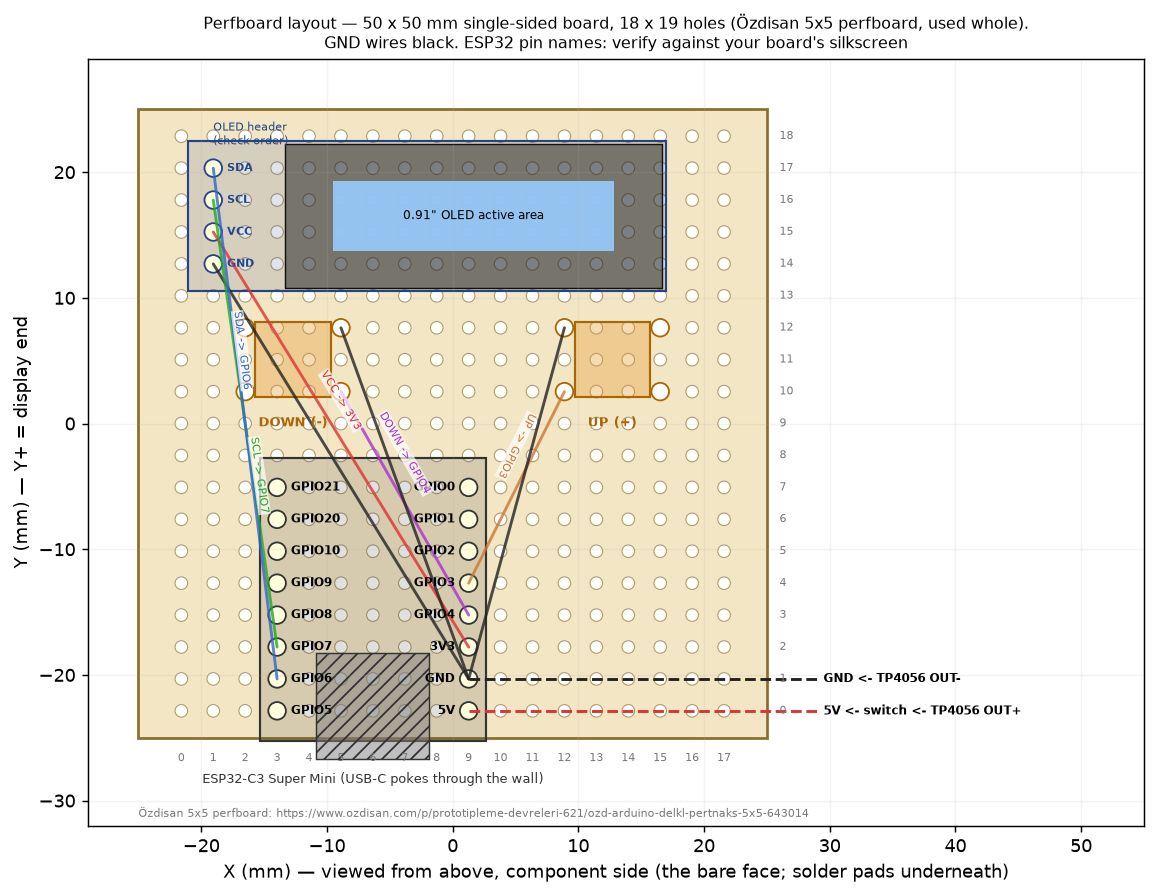
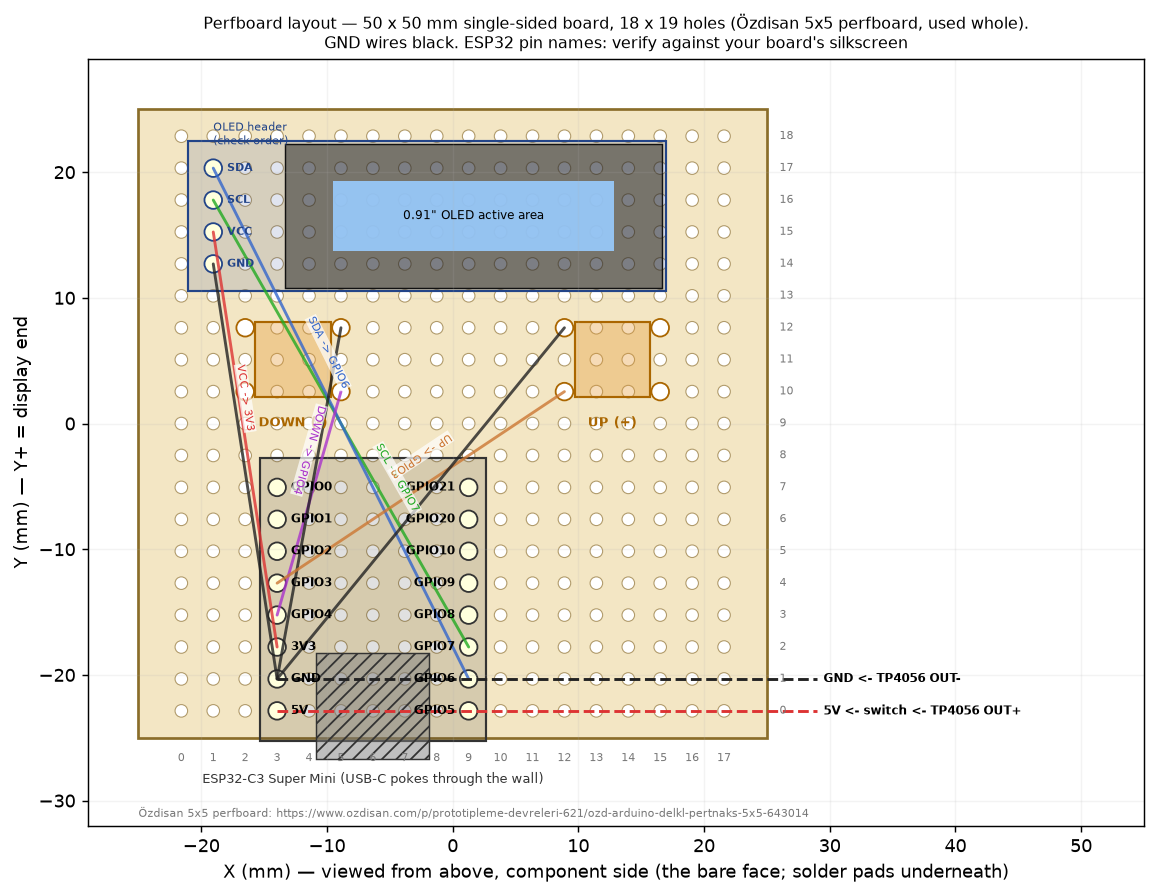
Fix mirrored Super Mini header columns in the perfboard drawing
The layout drawing had the two ESP32-C3 Super Mini pin columns swapped,
so a board wired from it put the buttons on GPIO8/GPIO9 and the OLED on
the power pins. With the USB-C at the bottom edge and the board viewed
from above, column 3 is 5V, GND, 3V3, GPIO4, GPIO3, GPIO2, GPIO1, GPIO0
and column 9 is GPIO5, GPIO6, GPIO7, GPIO8, GPIO9, GPIO10, GPIO20,
GPIO21 (mischianti photo pinout, confirmed on an assembled board).

- render_docs.py: swap ESP_LEFT/ESP_RIGHT; wire routes follow by name
- README: state the column contents, add a rework note for boards built
  from the earlier drawing (move each module wire to the other column,
  same row; firmware unchanged)
- CLAUDE.md: record the verified order and the mirroring gotcha
- geometry, STLs and firmware unchanged

Changed region(s): [[0.1867, 0.2112, 0.4978, 0.8145]]

diff --git a/case/tools/render_docs.py b/case/tools/render_docs.py
@@ -103,9 +103,11 @@ def render_case(out_path):
 
 
 # ESP32-C3 Super Mini pin names with the USB at Y-, board viewed from above.
-# Left = col 3, right = col 9, rows 0..7 (0 = USB end). Verify on the silkscreen.
-ESP_LEFT = ["GPIO5", "GPIO6", "GPIO7", "GPIO8", "GPIO9", "GPIO10", "GPIO20", "GPIO21"]
-ESP_RIGHT = ["5V", "GND", "3V3", "GPIO4", "GPIO3", "GPIO2", "GPIO1", "GPIO0"]
+# Left = col 3, right = col 9, rows 0..7 (0 = USB end). Verified against the
+# mischianti photo pinout and on a real board 2026-10-10 (an earlier version had
+# the two columns mirrored). Still worth a glance at the silkscreen.
+ESP_LEFT = ["5V", "GND", "3V3", "GPIO4", "GPIO3", "GPIO2", "GPIO1", "GPIO0"]
+ESP_RIGHT = ["GPIO5", "GPIO6", "GPIO7", "GPIO8", "GPIO9", "GPIO10", "GPIO20", "GPIO21"]
 OLED_PINS = ["GND", "VCC", "SCL", "SDA"]  # rows 14..17, the usual order — check
 OLED_ROWS = range(14, 18)
 TACT_ROWS = (10, 12)  # tact pins straddle the body on row 11

diff --git a/README.md b/README.md
@@ -79,15 +79,23 @@ components sit on the bare face, pads underneath. The drawing above is the
 **component-side view**, so hole positions appear mirrored once you flip the board
 to solder. Column 0 / row 0 is the bottom-left corner when the display end is up.
 The Super Mini's two pin rows go into **columns 3 and 9, rows 0…7**, USB-C at the
-bottom edge; because row 0 sits only 2.14 mm from the board edge the receptacle
+bottom edge — column 3 carries 5V, GND, 3V3, GPIO4, GPIO3, GPIO2, GPIO1, GPIO0
+from the USB end up and column 9 carries GPIO5, GPIO6, GPIO7, GPIO8, GPIO9,
+GPIO10, GPIO20, GPIO21 (verified against the mischianti photo pinout and on a
+real board, 2026-10-10); because row 0 sits only 2.14 mm from the board edge the receptacle
 face ends up just 1.72 mm past the perfboard, so the case wall is relieved from
 the outside to a 1.4 mm thin wall there and the port sits 0.2 mm behind it.
 The two tact switches are centred at **X ±12.7 mm on row 11** — their four legs land
 in columns 2 & 5 (DOWN) and 12 & 15 (UP), rows 10 & 12. The OLED's 4-pin header
 goes into **column 1, rows 14…17**, with the module extending to the right across
-the top of the board. Pin names in the drawing follow the common Super Mini
-silkscreen — **verify against your board** before soldering; OLED header order
-varies (GND VCC SCL SDA on most modules).
+the top of the board. Pin names in the drawing match the real board — still
+**verify against your board** before soldering, Super Mini pinout images disagree
+on mirroring; OLED header order varies (GND VCC SCL SDA on most modules).
+
+> **Rework note.** If you built the board from a drawing dated before 2026-10-10,
+> the two ESP32 columns were mirrored: move every wire that lands on the module
+> to the other column at the same row (5V, GND, 3V3, SDA, SCL, UP, DOWN) — the
+> firmware is unchanged.
 
 ### Power notes
 

diff --git a/CLAUDE.md b/CLAUDE.md
@@ -111,6 +111,10 @@ ESPHome Flash 51 % / RAM 33 %, factory bin 983 KB.
 
 - **Pins**: BTN_UP GPIO3, BTN_DOWN GPIO4 (to GND, internal pull-ups, active low);
   OLED SDA GPIO6, SCL GPIO7, address 0x3C, 128 × 32. BOOT button = GPIO9.
+  Header columns in the layout (USB at Y−, viewed from above, rows 0→7 from the
+  USB end): col 3 = 5V, GND, 3V3, GPIO4, GPIO3, GPIO2, GPIO1, GPIO0; col 9 =
+  GPIO5, GPIO6, GPIO7, GPIO8, GPIO9, GPIO10, GPIO20, GPIO21 — mischianti photo
+  pinout, confirmed on the assembled board 2026-10-10.
 - **Super Mini power** (mischianti schematic, 2025-07): `5V` header pin = USB VBUS
   net before BAT60J diode → ME6211 3.3 V LDO. Battery path Vbat → BAT60J
   (≈0.2–0.3 V) → ME6211 → 3V3: regulation to ≈3.6–3.7 V, 3V3 sags below ≈3.4 V
@@ -204,6 +208,9 @@ notch, (ESP_X + SKIRT_NOTCH_W/2 + OPEN_W/2)/2.
   (`/cache`) hold the toolchains; `make clean` keeps them.
 - **Context7** for library docs (ESPHome components, U8g2, trimesh); don't guess
   YAML keys.
+- Super Mini pinout images disagree on mirroring; the photo-based mischianti
+  pinout and the real board are the reference, see `render_docs.py`
+  `ESP_LEFT`/`ESP_RIGHT`.
 - Outputs are committed (`case/stl`, `case/docs`, `case/preview.html`,
   `index.html`, `case/vendor/`) and never hand-edited; firmware binaries are
   gitignored and rebuilt. Bumping any pin re-triangulates every STL: regenerate,
